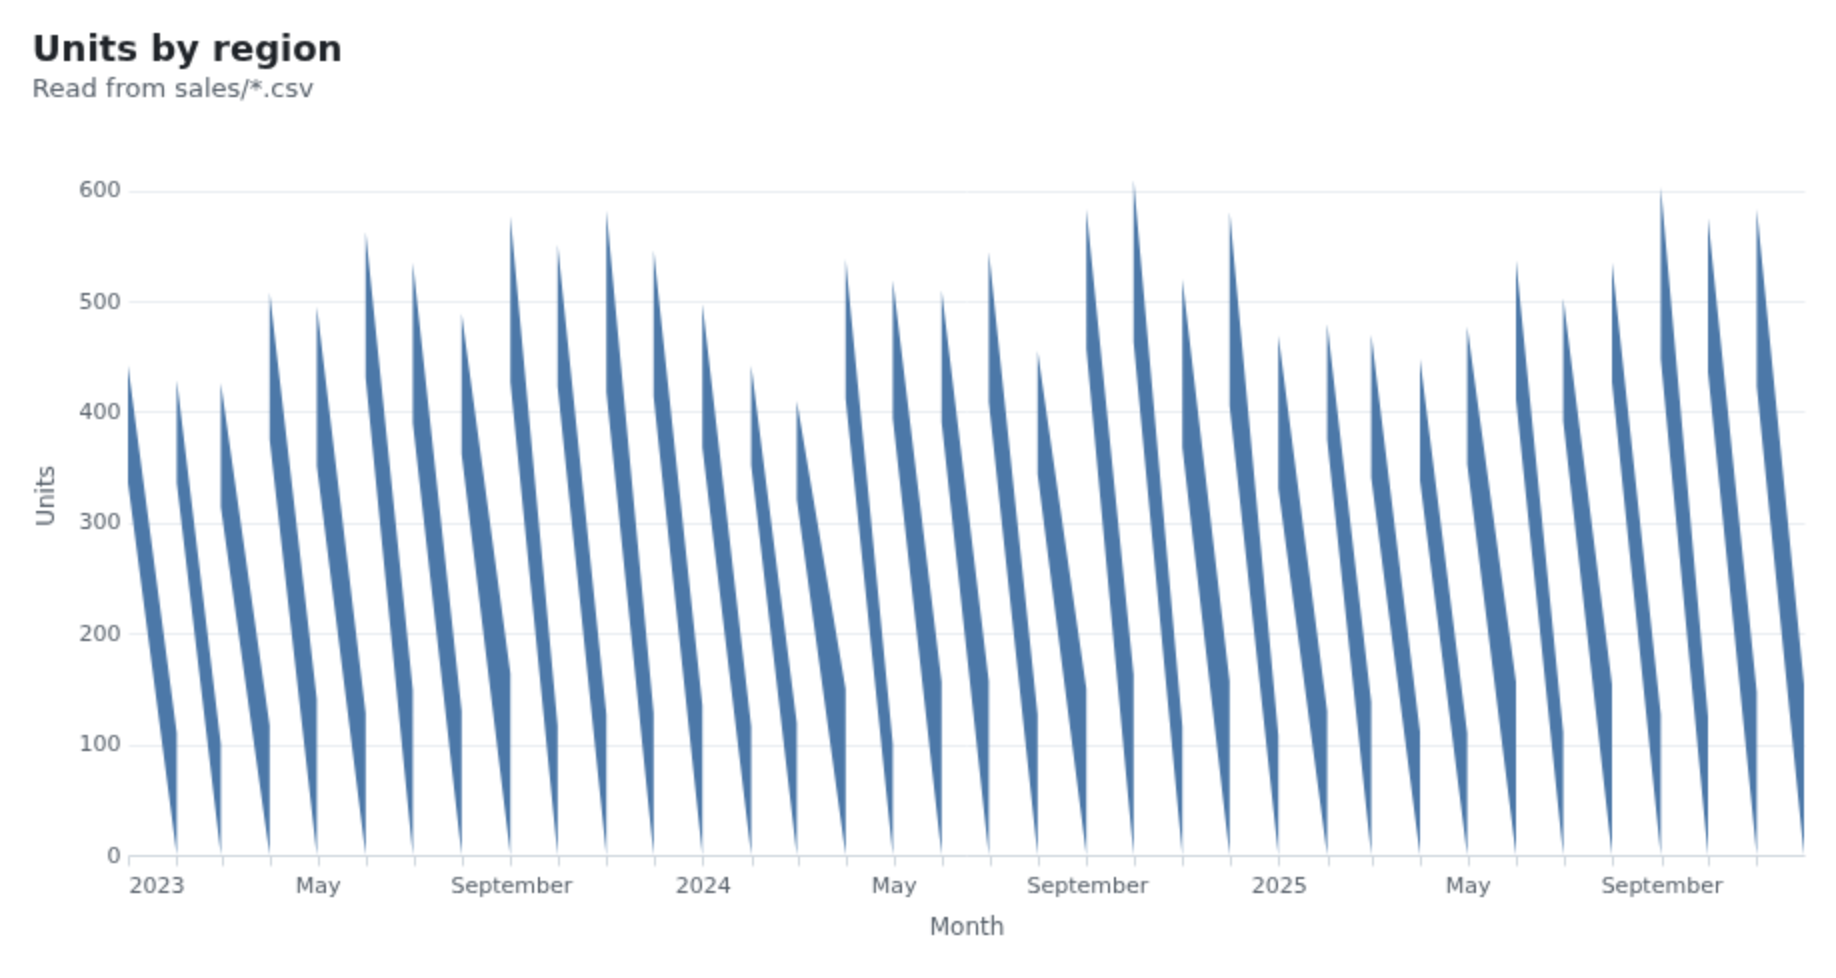
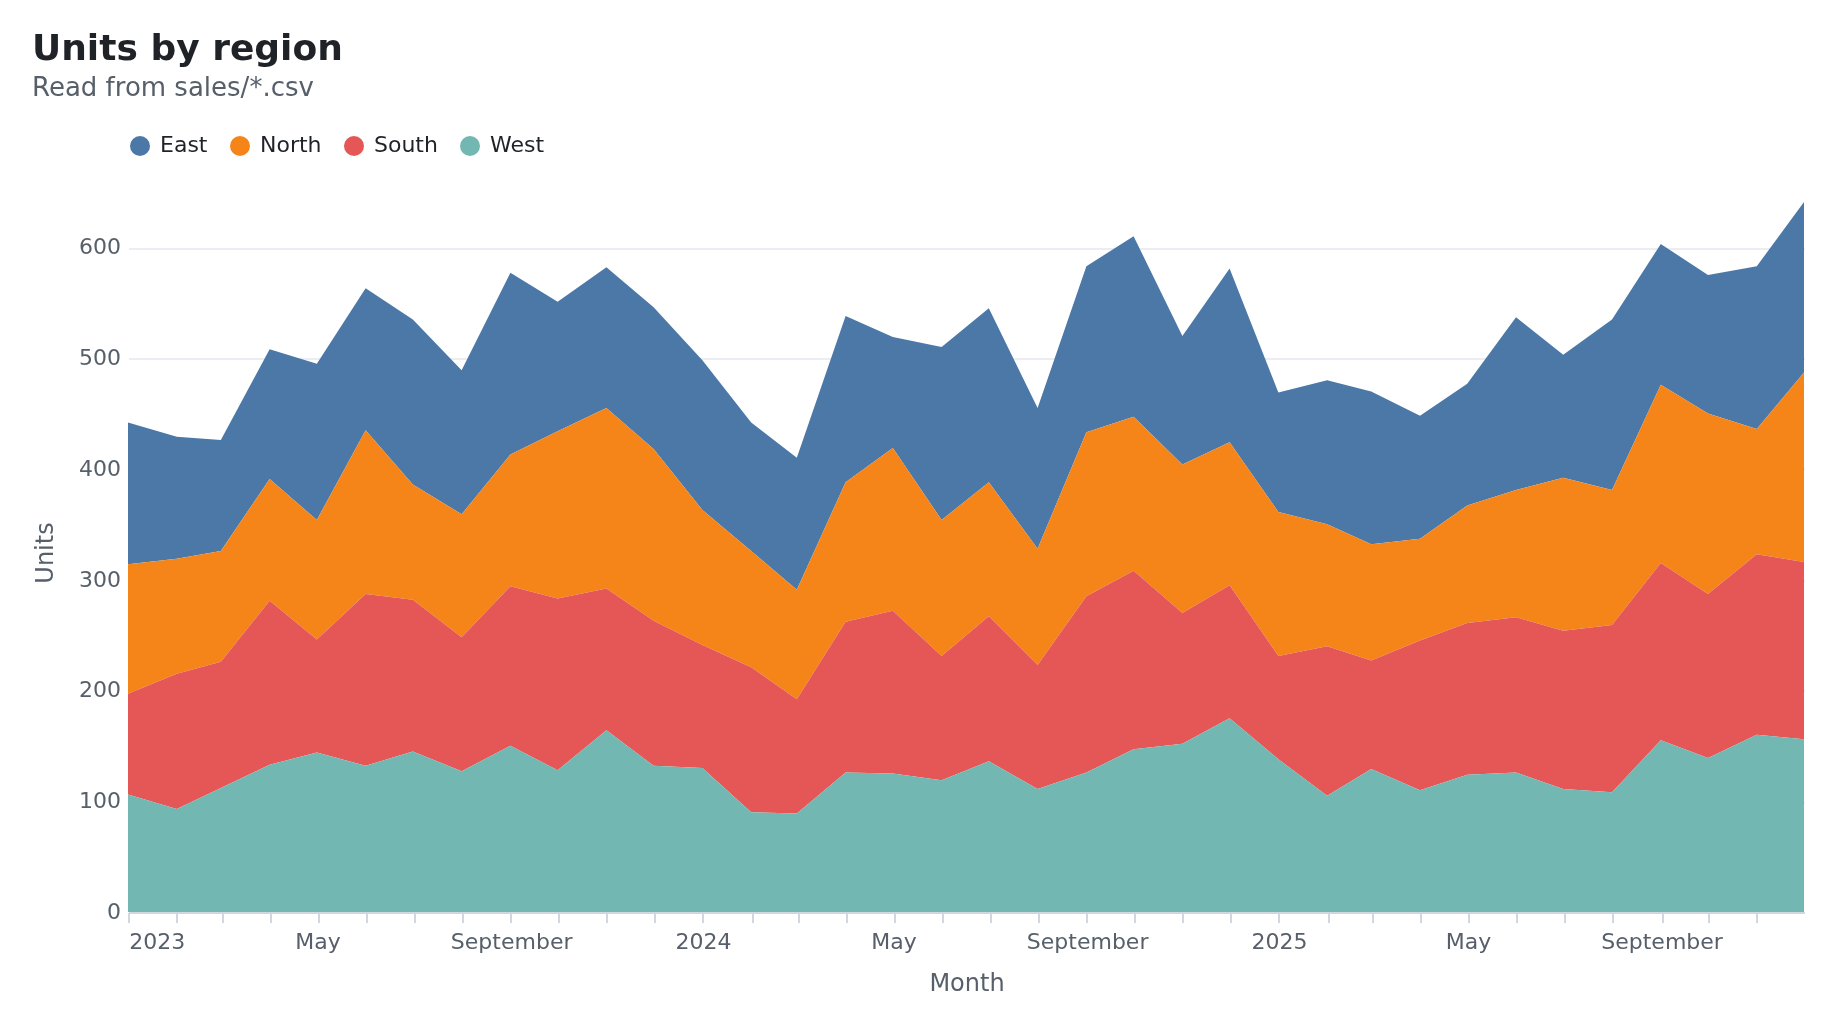
Page: redo the area chart screenshot as a stacked area by region
The old image had no colour field, so it showed a sawtooth instead of the stacked areas the
caption describes. Re-exported with dchart's Download PNG; examples synced.

diff --git a/index.html b/index.html
@@ -167,7 +167,7 @@
         <p>KPIs against their goals: the bar is the actual value, the tick the target, and the grey bands are the ranges you set.</p>
       </div>
       <div role="tabpanel" id="pane-g6" aria-labelledby="tab-g6" hidden>
-        <img src="media/c-area.png" alt="Stacked area chart of monthly units by region from 2023 to 2025" width="1836" height="978" loading="lazy">
+        <img src="media/c-area.png" alt="Stacked area chart of monthly units by region from 2023 to 2025" width="1836" height="1026" loading="lazy">
         <p>Three years of units by region, read from <code>sales/*.csv</code>: three yearly files queried as one table.</p>
       </div>
     </figure>
